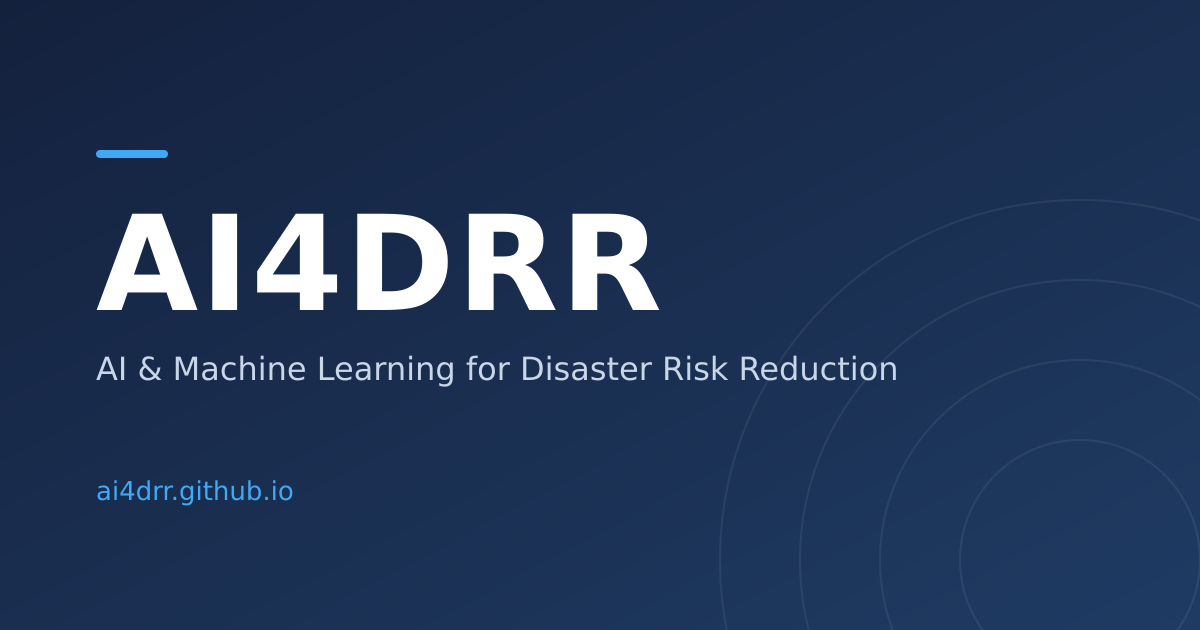
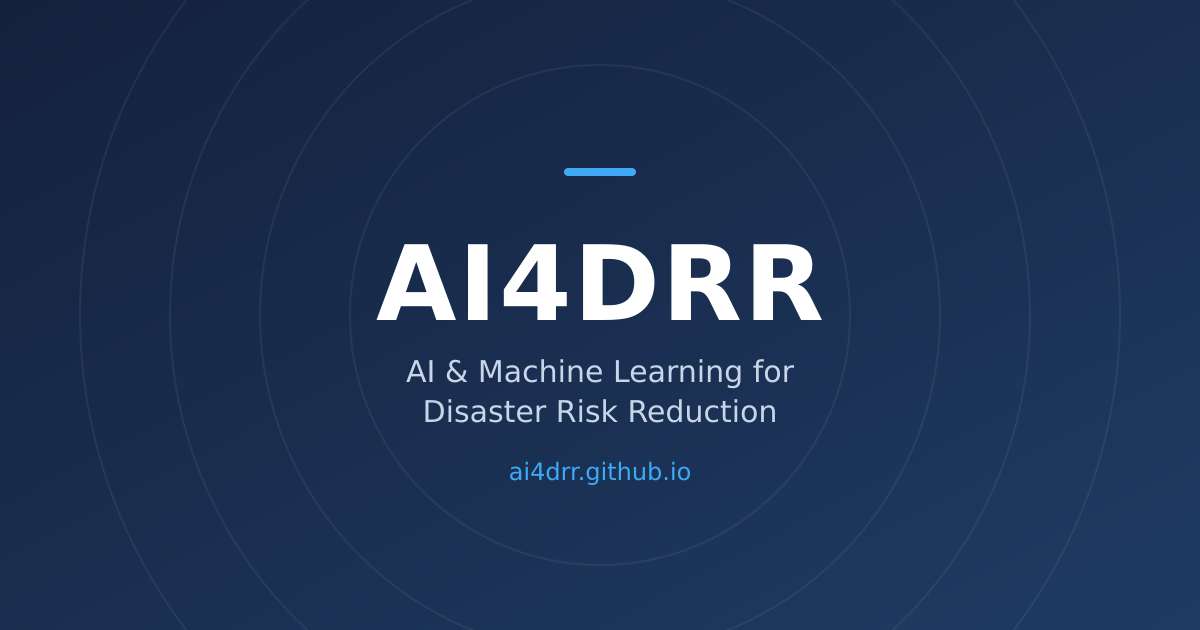
Center social preview image content for cropped thumbnails

diff --git a/index.html b/index.html
@@ -11,7 +11,7 @@
   <meta property="og:title" content="AI4DRR">
   <meta property="og:description" content="AI4DRR showcases experiments, prototypes, and proofs of concept exploring how AI and Machine Learning can support Disaster Risk Reduction.">
   <meta property="og:url" content="https://ai4drr.github.io/">
-  <meta property="og:image" content="https://ai4drr.github.io/og-image.png">
+  <meta property="og:image" content="https://ai4drr.github.io/og-image.png?v=2">
   <meta property="og:image:width" content="1200">
   <meta property="og:image:height" content="630">
   <meta property="og:image:alt" content="AI4DRR: AI &amp; Machine Learning for Disaster Risk Reduction">
